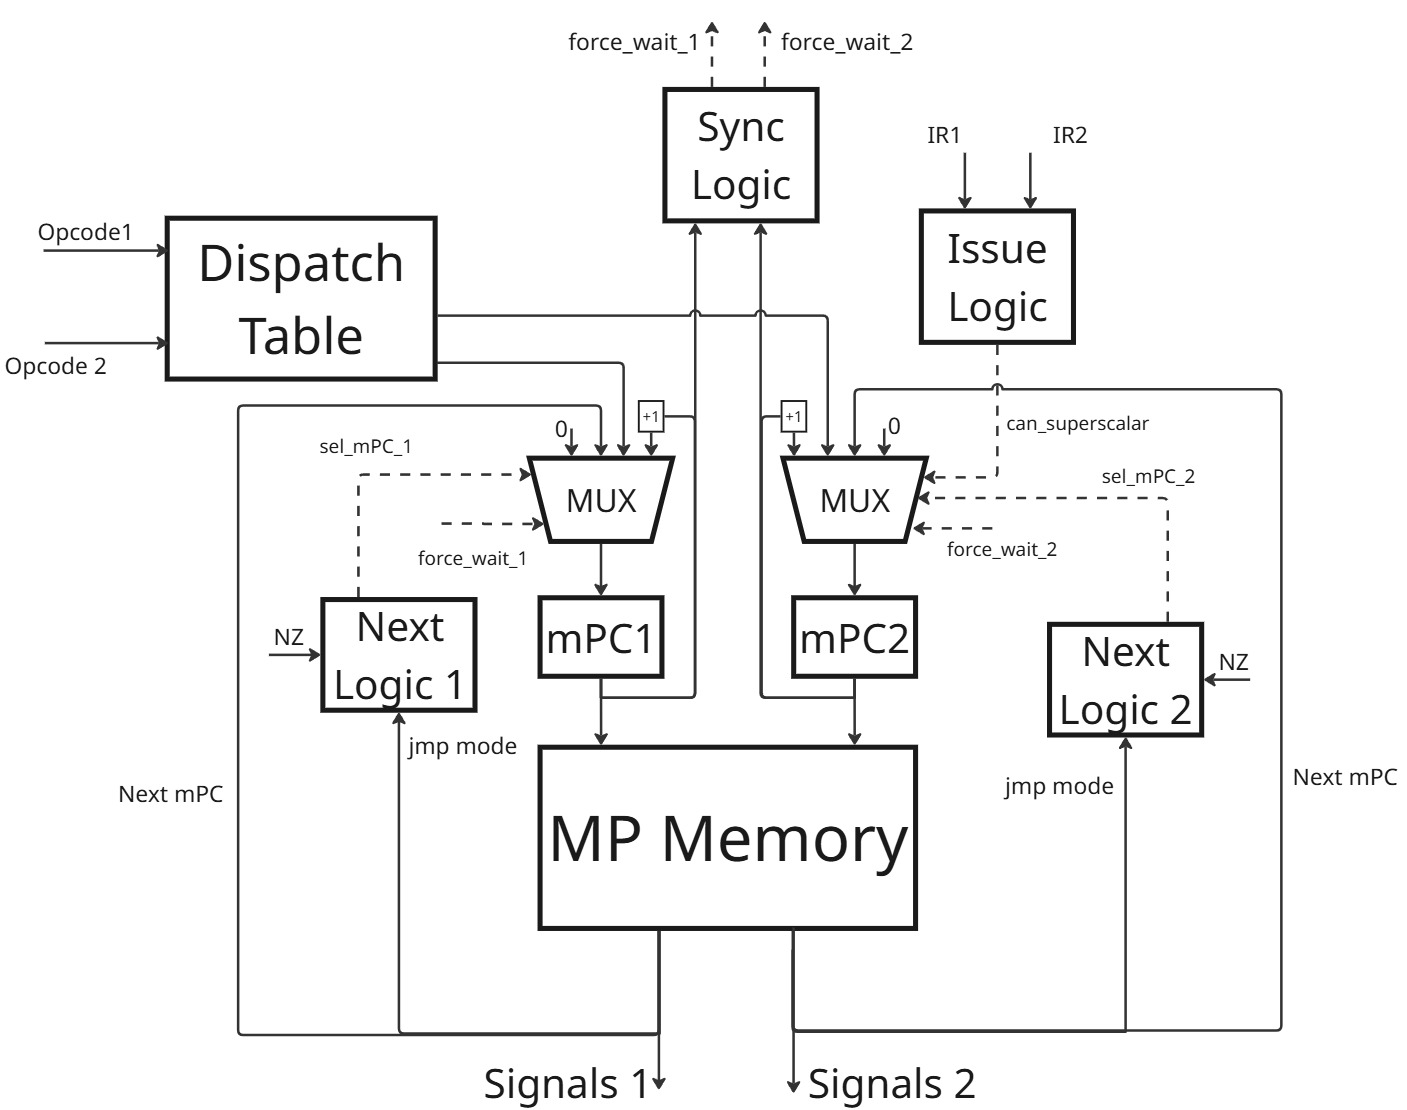
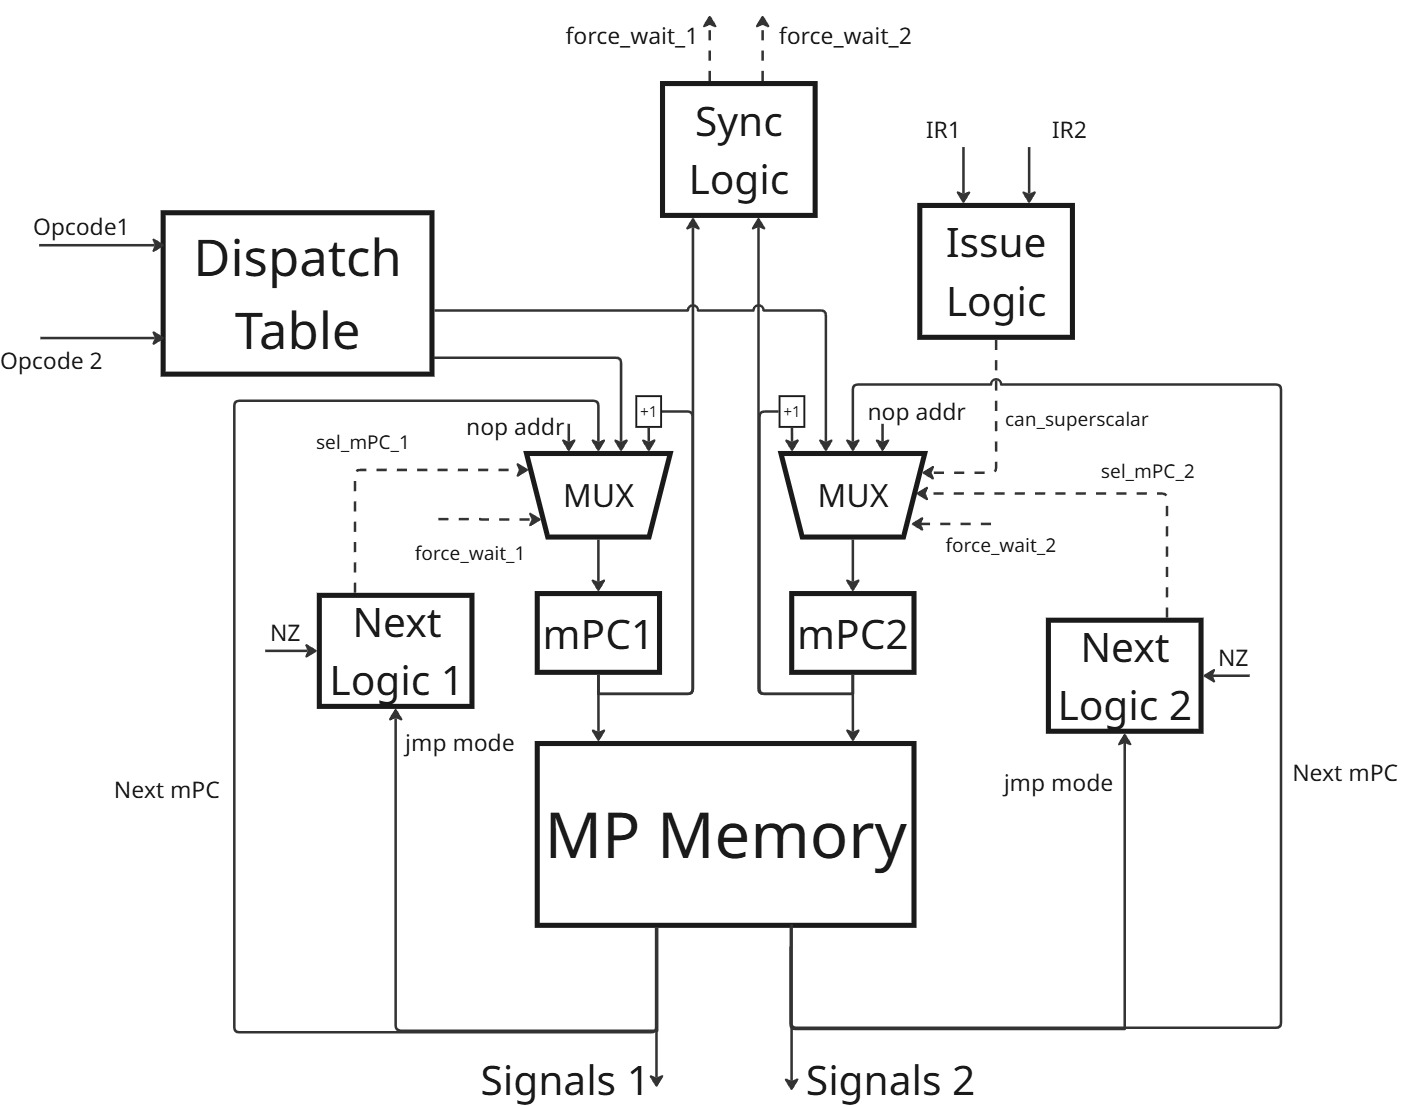
Fixes

diff --git a/machine.py b/machine.py
@@ -358,9 +358,9 @@ class ControlUnit:
         self.SEQ_JMP_L = 4
         self.SEQ_JMP_G = 5
 
-        self.mp_memory = {
-            # FETCH
-            0x0: MicroCommand(
+        self.mp_memory = [
+            # FETCH (0x0)
+            MicroCommand(
                 [
                     Signal.SEL_MEM_ADDR_PC,
                     Signal.READ_MEM,
@@ -369,8 +369,8 @@ class ControlUnit:
                 ],
                 jmp_mode=self.SEQ_MAP,
             ),
-            # LUI
-            0x1: MicroCommand(
+            # LUI (0x1)
+            MicroCommand(
                 [
                     Signal.SEL_NEXT_PC_INC,
                     Signal.LATCH_PC,
@@ -381,8 +381,8 @@ class ControlUnit:
                     Signal.SEL_REG_SR_ALU,
                 ]
             ),
-            # MV
-            0x2: MicroCommand(
+            # MV (0x2)
+            MicroCommand(
                 [
                     Signal.SEL_NEXT_PC_INC,
                     Signal.LATCH_PC,
@@ -392,8 +392,8 @@ class ControlUnit:
                     Signal.WRITE_REG,
                 ]
             ),
-            # SW
-            0x3: MicroCommand(
+            # SW (0x3)
+            MicroCommand(
                 [
                     Signal.SEL_NEXT_PC_INC,
                     Signal.LATCH_PC,
@@ -405,14 +405,14 @@ class ControlUnit:
                 ],
                 jmp_mode=self.SEQ_INC,
             ),
-            0x4: MicroCommand(
+            MicroCommand(
                 [
                     Signal.SEL_MEM_ADDR_AR,
                     Signal.WRITE_MEM,
                 ]
             ),
-            # LW
-            0x5: MicroCommand(
+            # LW (0x5)
+            MicroCommand(
                 [
                     Signal.SEL_NEXT_PC_INC,
                     Signal.LATCH_PC,
@@ -424,7 +424,7 @@ class ControlUnit:
                 ],
                 jmp_mode=self.SEQ_INC,
             ),
-            0x6: MicroCommand(
+            MicroCommand(
                 [
                     Signal.SEL_MEM_ADDR_AR,
                     Signal.READ_MEM,
@@ -432,8 +432,8 @@ class ControlUnit:
                     Signal.SEL_REG_SR_MEM,
                 ]
             ),
-            # ADDI
-            0x7: MicroCommand(
+            # ADDI (0x7)
+            MicroCommand(
                 [
                     Signal.SEL_NEXT_PC_INC,
                     Signal.LATCH_PC,
@@ -445,8 +445,8 @@ class ControlUnit:
                     Signal.SEL_REG_SR_ALU,
                 ],
             ),
-            # ADD
-            0x8: MicroCommand(
+            # ADD (0x8)
+            MicroCommand(
                 [
                     Signal.SEL_NEXT_PC_INC,
                     Signal.LATCH_PC,
@@ -457,8 +457,8 @@ class ControlUnit:
                     Signal.SEL_REG_SR_ALU,
                 ]
             ),
-            # SUB
-            0x9: MicroCommand(
+            # SUB (0x9)
+            MicroCommand(
                 [
                     Signal.SEL_NEXT_PC_INC,
                     Signal.LATCH_PC,
@@ -469,8 +469,8 @@ class ControlUnit:
                     Signal.SEL_REG_SR_ALU,
                 ]
             ),
-            # MUL
-            0xA: MicroCommand(
+            # MUL (0xA)
+            MicroCommand(
                 [
                     Signal.SEL_NEXT_PC_INC,
                     Signal.LATCH_PC,
@@ -481,8 +481,8 @@ class ControlUnit:
                     Signal.SEL_REG_SR_ALU,
                 ]
             ),
-            # AND
-            0xB: MicroCommand(
+            # AND (0xB)
+            MicroCommand(
                 [
                     Signal.SEL_NEXT_PC_INC,
                     Signal.LATCH_PC,
@@ -493,8 +493,8 @@ class ControlUnit:
                     Signal.SEL_REG_SR_ALU,
                 ]
             ),
-            # INV
-            0xC: MicroCommand(
+            # INV (0xC)
+            MicroCommand(
                 [
                     Signal.SEL_NEXT_PC_INC,
                     Signal.LATCH_PC,
@@ -505,8 +505,8 @@ class ControlUnit:
                     Signal.SEL_REG_SR_ALU,
                 ]
             ),
-            # DIV
-            0xD: MicroCommand(
+            # DIV (0xD)
+            MicroCommand(
                 [
                     Signal.SEL_NEXT_PC_INC,
                     Signal.LATCH_PC,
@@ -517,8 +517,8 @@ class ControlUnit:
                     Signal.SEL_REG_SR_ALU,
                 ]
             ),
-            # MOD
-            0xE: MicroCommand(
+            # MOD (0xE)
+            MicroCommand(
                 [
                     Signal.SEL_NEXT_PC_INC,
                     Signal.LATCH_PC,
@@ -529,8 +529,8 @@ class ControlUnit:
                     Signal.SEL_REG_SR_ALU,
                 ]
             ),
-            # J
-            0xF: MicroCommand(
+            # J (0xF)
+            MicroCommand(
                 [
                     Signal.SEL_ALU_R_IMM,
                     Signal.ALU_OP_PASS_R,
@@ -538,8 +538,8 @@ class ControlUnit:
                     Signal.LATCH_PC,
                 ]
             ),
-            # JR
-            0x10: MicroCommand(
+            # JR (0x10)
+            MicroCommand(
                 [
                     Signal.SEL_ALU_L_RS1,
                     Signal.ALU_OP_PASS_L,
@@ -547,8 +547,8 @@ class ControlUnit:
                     Signal.LATCH_PC,
                 ]
             ),
-            # JZ
-            0x11: MicroCommand(
+            # JZ (0x11)
+            MicroCommand(
                 [
                     Signal.SEL_ALU_L_RS1,
                     Signal.ALU_OP_PASS_L,
@@ -556,13 +556,13 @@ class ControlUnit:
                 jmp_mode=self.SEQ_JMP_Z,
                 jmp_addr=0x13,
             ),
-            0x12: MicroCommand(
+            MicroCommand(
                 [
                     Signal.SEL_NEXT_PC_INC,
                     Signal.LATCH_PC,
                 ]
             ),
-            0x13: MicroCommand(
+            MicroCommand(
                 [
                     Signal.SEL_ALU_R_IMM,
                     Signal.ALU_OP_PASS_R,
@@ -570,8 +570,8 @@ class ControlUnit:
                     Signal.LATCH_PC,
                 ]
             ),
-            # JG
-            0x14: MicroCommand(
+            # JG (0x14)
+            MicroCommand(
                 [
                     Signal.SEL_ALU_L_RS1,
                     Signal.ALU_OP_PASS_L,
@@ -579,14 +579,14 @@ class ControlUnit:
                 jmp_mode=self.SEQ_JMP_G,
                 jmp_addr=0x13,
             ),
-            0x15: MicroCommand(
+            MicroCommand(
                 [
                     Signal.SEL_NEXT_PC_INC,
                     Signal.LATCH_PC,
                 ]
             ),
-            # JL
-            0x16: MicroCommand(
+            # JL (0x16)
+            MicroCommand(
                 [
                     Signal.SEL_ALU_L_RS1,
                     Signal.ALU_OP_PASS_L,
@@ -594,17 +594,17 @@ class ControlUnit:
                 jmp_mode=self.SEQ_JMP_L,
                 jmp_addr=0x13,
             ),
-            0x17: MicroCommand(
+            MicroCommand(
                 [
                     Signal.SEL_NEXT_PC_INC,
                     Signal.LATCH_PC,
                 ]
             ),
-            # HALT
-            0x18: MicroCommand([], jmp_addr=0x18),
-            # Force WAIT
-            0x19: MicroCommand([]),
-        }
+            # HALT (0x18)
+            MicroCommand([], jmp_addr=0x18),
+            # NOP (0x19)
+            MicroCommand([]),
+        ]
 
     def _issue_logic(self, ir1: int, ir2: int) -> bool:
         if self.scalar_mode:
@@ -734,13 +734,13 @@ class ControlUnit:
         # Sync Logic
         if self.mPC1 == 0 and self.mPC2 != 0:
             mc1 = self.mp_memory[0x19]
-            mc2 = self.mp_memory.get(self.mPC2, self.mp_memory[0x19])
+            mc2 = self.mp_memory[self.mPC2]
         elif self.mPC2 == 0 and self.mPC1 != 0:
-            mc1 = self.mp_memory.get(self.mPC1, self.mp_memory[0x19])
+            mc1 = self.mp_memory[self.mPC1]
             mc2 = self.mp_memory[0x19]
         else:
-            mc1 = self.mp_memory.get(self.mPC1, self.mp_memory[0x19])
-            mc2 = self.mp_memory.get(self.mPC2, self.mp_memory[0x19])
+            mc1 = self.mp_memory[self.mPC1]
+            mc2 = self.mp_memory[self.mPC2]
 
         self.data_path.tick(mc1.signals, mc2.signals)
 
